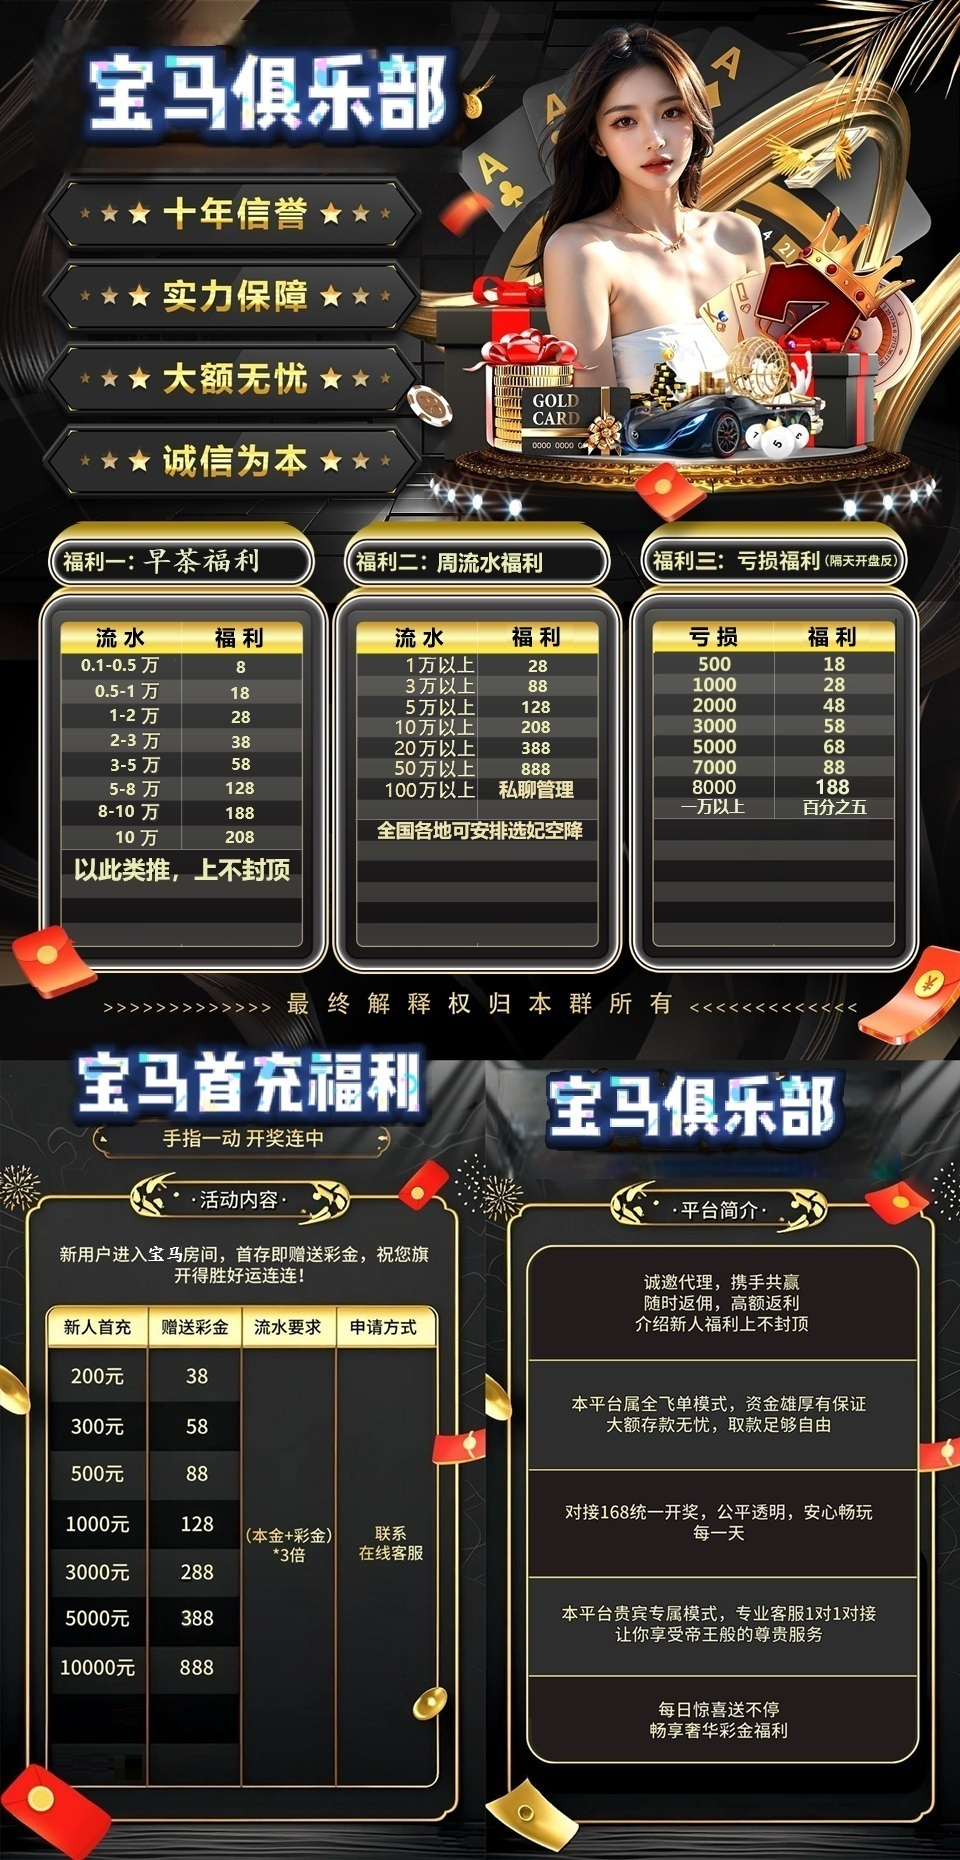
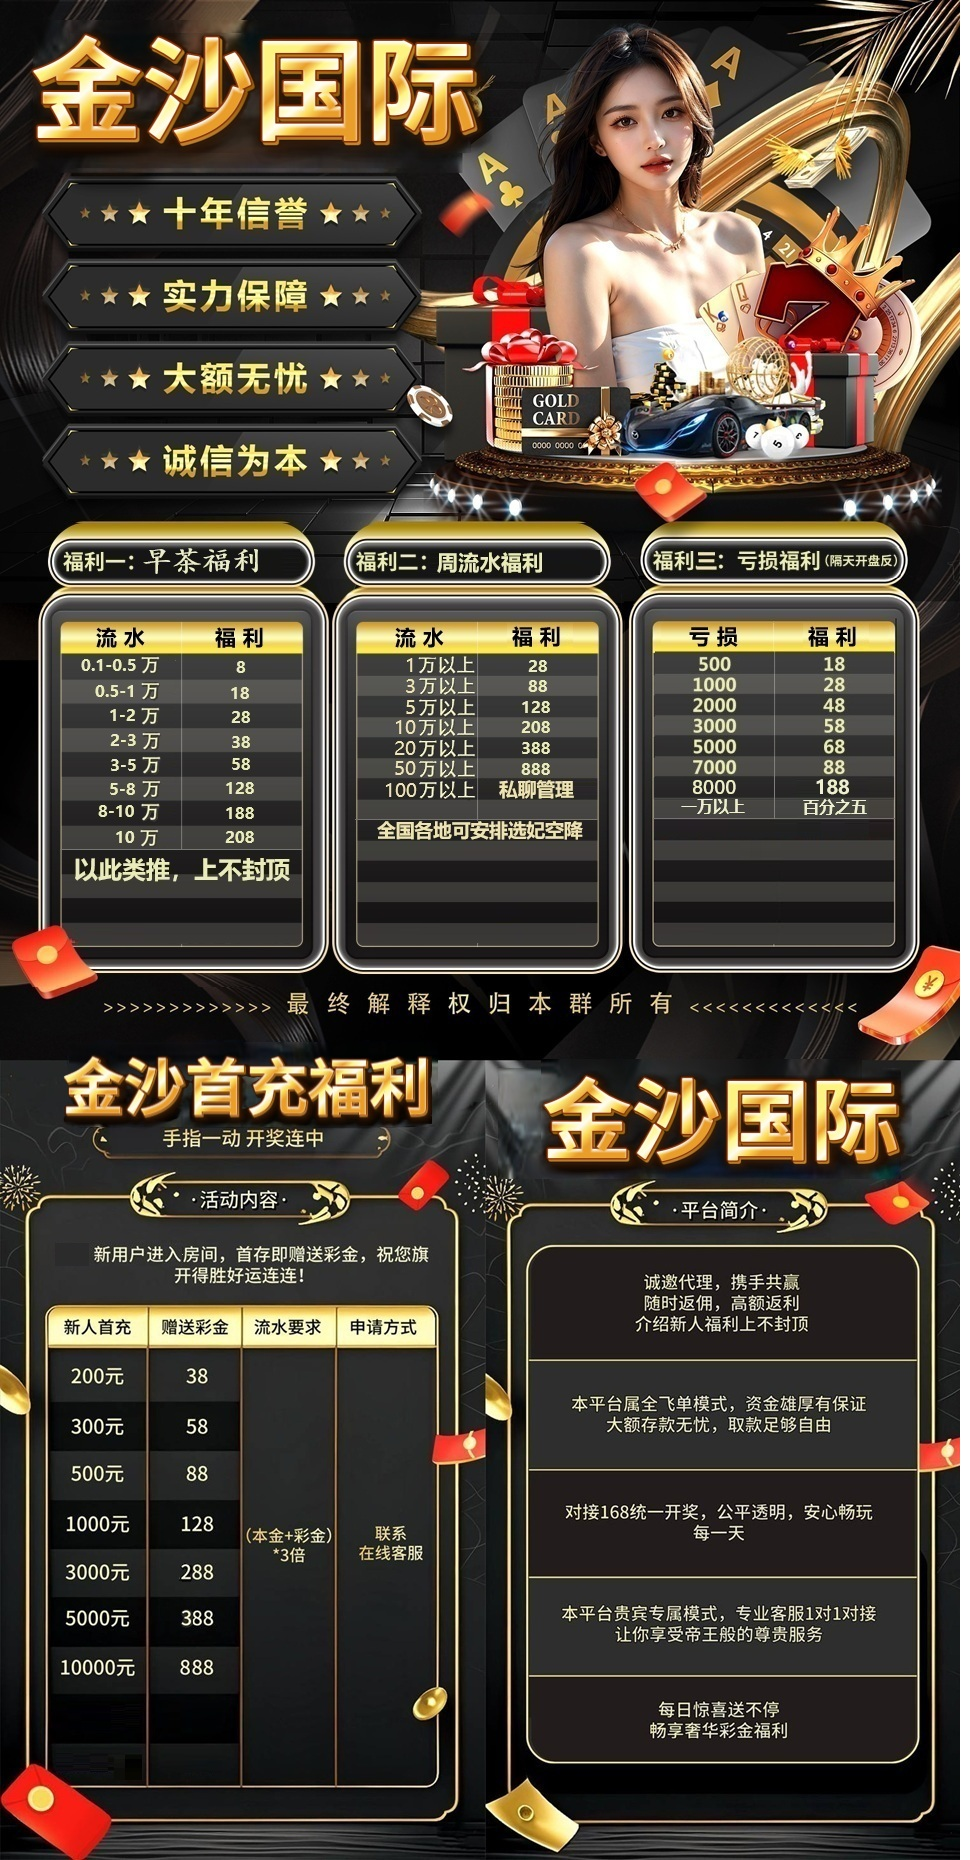
Add files via upload

diff --git a/index.html b/index.html
@@ -8,7 +8,7 @@
     <link rel="stylesheet" href="./skin/style_icon.css">
     <link rel="stylesheet" href="./skin/index.css">
     <script src="./skin/nutui.umd.4.3.8.js"></script>
-    <title>宝马俱乐部</title>
+    <title>金沙国际</title>
     <meta name="keywords" content="">
     <meta name="description" content="">
     <link rel="icon" href="./skin/0544aa35b27947c89122b31183d19d04.png" type="image/png">
@@ -85,7 +85,7 @@
                     <div class="msg-bar">
                         <div class="marquee-container">
                             <div class="marquee">
-                                欢迎来到宝马俱乐部，本平台已上押至官方，请各位老板放心娱乐，在本平台如发生不下分，卡回款，请及时联系本网页在线客服，会及时处理！
+                                欢迎来到金沙国际，本平台已上押至官方，请各位老板放心娱乐，在本平台如发生不下分，卡回款，请及时联系本网页在线客服，会及时处理！
                             </div>
                         </div>
                     </div>
@@ -122,7 +122,7 @@
                                         </div>
                                         <div class="link">
                                         <div class="name">
-                                            房间:500819
+                                            房间:525888
                                         </div>
                                             <a href="javascript:;">
                           
@@ -138,8 +138,7 @@
                         </a>
                                         </div>
                                     </div>
-                                    <a class="active" href="fl.html">
-                      <img src="./skin/img2.png" alt="">
+
                     </a>
                                 </div>
                                 <div class="label-list">
@@ -244,6 +243,8 @@
                                         <div class="name">
                                             168 开奖网
                                         </div>
+                                                                                <div class="name">
+                                            房间:525888</div>
                                         <div class="link">
                                             <a href="javascript:;">
                           
@@ -253,8 +254,7 @@
                         </a>
                                         </div>
                                     </div>
-                                    <a class="active" href="fl.html">
-                      <img src="./skin/img2.png" alt="">
+
                     </a>
                                 </div>
                                 <div class="label-list">
@@ -498,7 +498,33 @@
             <img src="./images/kefu.png" alt="在线客服！" style="width: 150px;">
         </a>
 </body>
+<style>
+    .footer-image-wrapper {
+        margin-top: auto;
+        width: 100%;
+        position: relative;
+        background-color: #000;
+        overflow: hidden; /* 防止图片溢出容器 */
+    }
+    
+    .footer-image {
+        display: block;
+        width: 100%; /* 强制图片宽度占满容器 */
+        height: auto;
+        object-fit: cover; /* 关键属性：保持比例并覆盖整个容器 */
+        object-position: center bottom; /* 图片定位：居中并靠底部 */
+    }
+</style>
 
-
-
+<div class="image-container">
+    <!-- 你的页面内容 -->
+    <div class="page-content">
+        <!-- 这里放置你的页面主体内容 -->
+    </div>
+    
+    <!-- 底部图片容器 -->
+    <div class="footer-image-wrapper">
+        <img src="./images/fl1.jpg" alt="风景图片" class="footer-image" />
+    </div>
+</div>
 </html>
